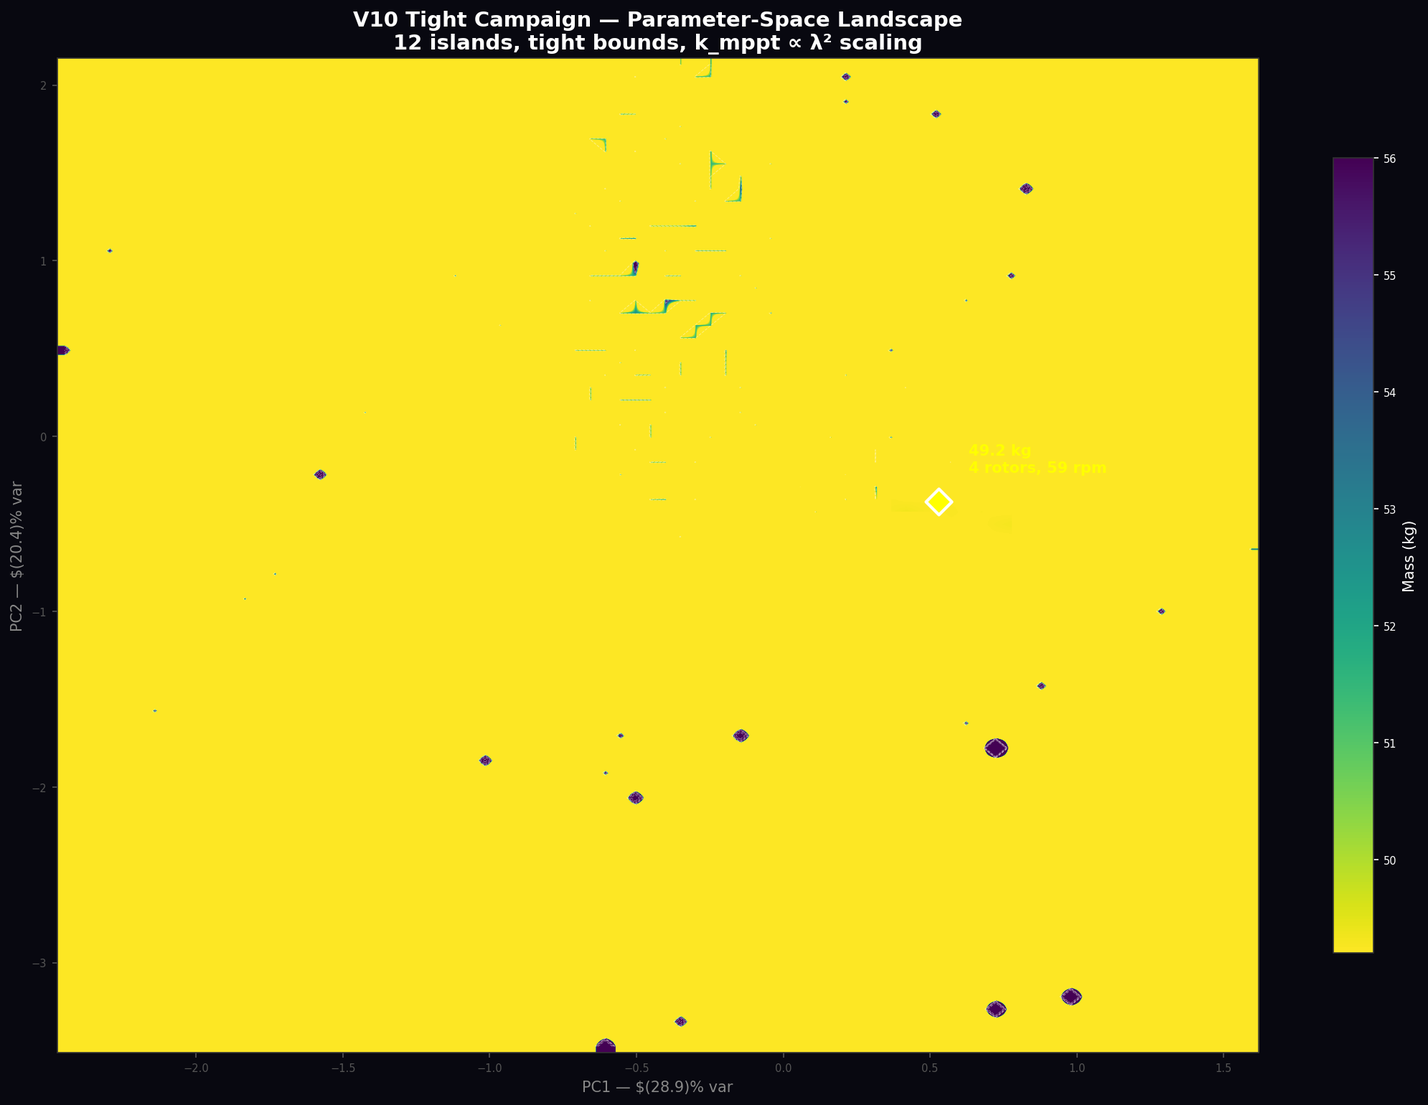
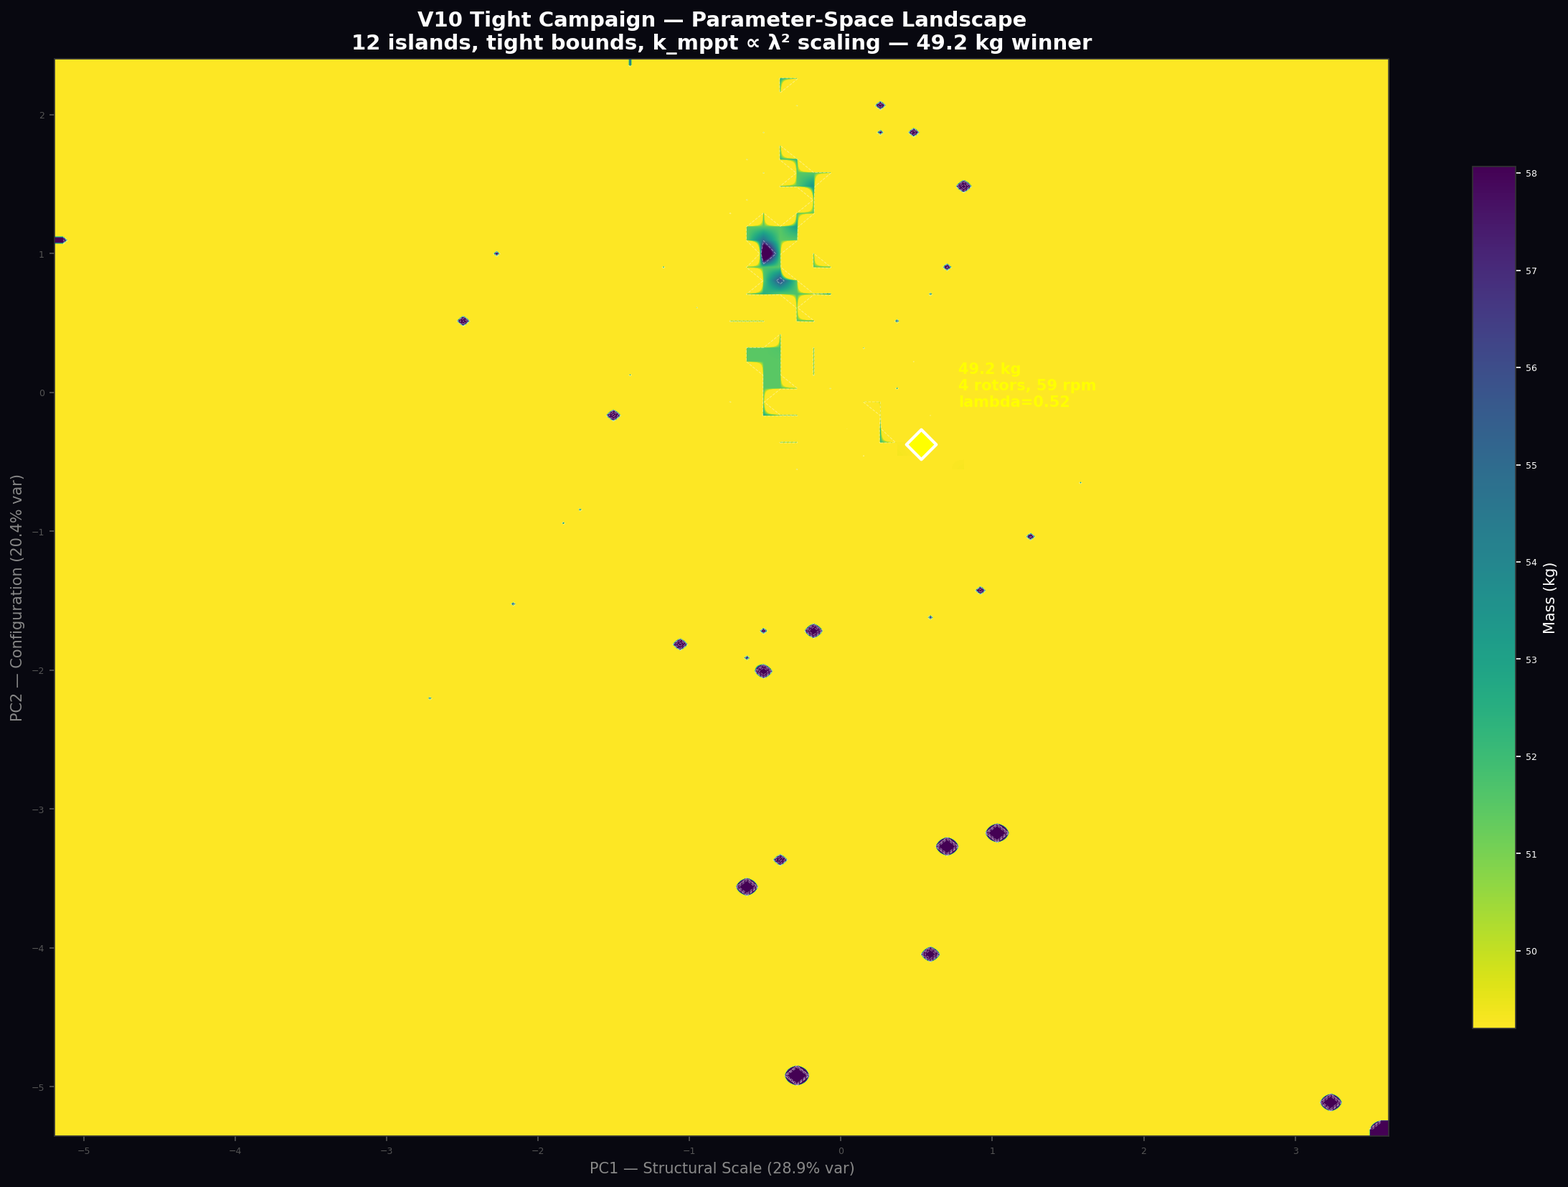
docs: full V10 tight diagram set — landscape, atlas, pairs, non-dimensional, traced paths
5-diagram set replicating V10v1 standard:
  v10-tight-landscape.png — PCA landscape with 49.2 kg winner
  v10-tight-atlas.png — 3x3 parameter grid on PCA
  v10-tight-pairs.png — 4x3 raw variable scatter plots
  v10-tight-nondim.png — non-dimensional Pi-group atlas
  v10-tight-paths.png — traced paths + findings panel

Accompanying explainer: v10-tight-diagrams.md

diff --git a/scripts/render_v10_tight_all.py b/scripts/render_v10_tight_all.py
@@ -1,0 +1,337 @@
+#!/usr/bin/env python3
+"""Generate full V10 tight diagram set: landscape, atlas, pairs, non-dimensional, traced paths."""
+import numpy as np, matplotlib
+matplotlib.use('Agg')
+import matplotlib.pyplot as plt
+from matplotlib.colors import Normalize
+from matplotlib.gridspec import GridSpec
+from matplotlib.lines import Line2D
+import os, json
+
+OUT_DIR = "/home/rod/Documents/GitHub/KiteTurbineDynamics.jl/docs/awes-forum-diagrams"
+DATA_PREFIX = "/tmp/v10_tight"
+
+# ── Load data ──────────────────────────────────────────────────────────
+pc1 = np.loadtxt(f"{DATA_PREFIX}_pc1.txt")
+pc2 = np.loadtxt(f"{DATA_PREFIX}_pc2.txt")
+mass = np.loadtxt(f"{DATA_PREFIX}_mass.txt")
+
+atlas = np.genfromtxt(f"{DATA_PREFIX}_atlas.csv", delimiter=',', names=True, dtype=None, encoding='utf-8')
+amass = atlas['mass']; amask = amass < 200
+atlas = atlas[amask]
+apc1 = atlas['pc1']; apc2 = atlas['pc2']
+
+q1, q99 = np.percentile(apc1, [1, 99])
+q2_1, q2_99 = np.percentile(apc2, [1, 99])
+
+plt.rcParams.update({
+    'figure.facecolor': '#080810', 'axes.facecolor': '#080810',
+    'text.color': 'white', 'axes.edgecolor': '#333', 'axes.labelcolor': 'white',
+    'xtick.labelsize': 6, 'xtick.color': '#555', 'ytick.labelsize': 6, 'ytick.color': '#555',
+})
+
+# ══════════════════════════════════════════════════════════════════════════
+# DIAGRAM 1: LANDSCAPE
+# ══════════════════════════════════════════════════════════════════════════
+print("1/5: Landscape...")
+fig, ax = plt.subplots(figsize=(20, 13))
+H, xe, ye = np.histogram2d(apc1, apc2, bins=80, weights=amass[amask])
+Hc, _, _ = np.histogram2d(apc1, apc2, bins=80)
+with np.errstate(invalid='ignore', divide='ignore'):
+    Havg = np.divide(H, Hc, where=Hc > 0)
+vmax = np.percentile(mass, 90)
+im = ax.imshow(Havg.T, origin='lower', aspect='auto',
+    extent=(apc1.min(), apc1.max(), apc2.min(), apc2.max()),
+    cmap='viridis_r', norm=Normalize(vmin=mass.min(), vmax=vmax), interpolation='bilinear')
+xc = (xe[:-1]+xe[1:])/2; yc = (ye[:-1]+ye[1:])/2
+for lvl in [49.5, 55, 65, 80]:
+    ax.contour(xc, yc, Havg.T, levels=[lvl], colors='white', linewidths=0.5, alpha=0.4, linestyles='--')
+best = mass.argmin()
+ax.scatter(pc1[best], pc2[best], c='yellow', s=200, zorder=10, edgecolors='white', linewidths=2, marker='D')
+ax.annotate('49.2 kg\n4 rotors, 59 rpm\nlambda=0.52', (pc1[best], pc2[best]),
+    xytext=(25, 25), textcoords='offset points', color='yellow', fontsize=10, fontweight='bold')
+ax.set_xlabel("PC1 — Structural Scale (28.9% var)", fontsize=10, color='#888')
+ax.set_ylabel("PC2 — Configuration (20.4% var)", fontsize=10, color='#888')
+ax.set_title("V10 Tight Campaign — Parameter-Space Landscape\n12 islands, tight bounds, k_mppt ∝ λ² scaling — 49.2 kg winner", fontsize=14, color='white', fontweight='bold')
+cbar = fig.colorbar(im, ax=ax, shrink=0.8); cbar.set_label("Mass (kg)", color='white', fontsize=10); cbar.ax.tick_params(colors='white')
+plt.savefig(f"{OUT_DIR}/v10-tight-landscape.png", dpi=150, facecolor='#080810', bbox_inches='tight')
+plt.close()
+
+# ══════════════════════════════════════════════════════════════════════════
+# DIAGRAM 2: PARAMETER ATLAS (3×3)
+# ══════════════════════════════════════════════════════════════════════════
+print("2/5: Parameter Atlas...")
+panels = [
+    ('mass', 'viridis_r', 'Mass (kg)', None, None),
+    ('n_lines', 'plasma', 'n_lines', 8, 16),
+    ('n_rotors', 'magma', 'n_rotors', 0, 4),
+    ('r_hub', 'coolwarm', 'r_hub (m)', 2.5, 5.0),
+    ('r_bottom', 'coolwarm', 'r_bottom (m)', 2.0, 5.0),
+    ('bank_top', 'RdYlBu_r', 'Bank top (deg)', 0, 35),
+    ('lambda_top', 'YlOrRd', 'Lambda top', 0.1, 1.5),
+    ('t_over_D', 'cividis', 't/D ratio', 0.005, 0.05),
+    ('target_Lr', 'viridis', 'Target L/r', 2.0, 3.0),
+]
+
+fig = plt.figure(figsize=(28, 22))
+gs = GridSpec(3, 4, figure=fig, width_ratios=[1, 1, 1, 0.08], hspace=0.35, wspace=0.30,
+              left=0.04, right=0.96, top=0.93, bottom=0.04)
+
+for idx, (field, cmap, label, vmin_o, vmax_o) in enumerate(panels):
+    row, col = idx // 3, idx % 3
+    ax = fig.add_subplot(gs[row, col])
+    vmin = vmin_o if vmin_o is not None else np.percentile(atlas[field], 2)
+    vmax = vmax_o if vmax_o is not None else np.percentile(atlas[field], 98)
+    H, xe, ye = np.histogram2d(apc1, apc2, bins=60, weights=atlas[field])
+    Hc, _, _ = np.histogram2d(apc1, apc2, bins=60)
+    with np.errstate(invalid='ignore', divide='ignore'):
+        Havg = np.divide(H, Hc, where=Hc > 0)
+    im = ax.imshow(Havg.T, origin='lower', aspect='auto',
+        extent=(apc1.min(), apc1.max(), apc2.min(), apc2.max()),
+        cmap=cmap, norm=Normalize(vmin=vmin, vmax=vmax), interpolation='bilinear')
+    if field != 'mass':
+        Hm, _, _ = np.histogram2d(apc1, apc2, bins=60, weights=atlas['mass'])
+        Hma = np.divide(Hm, Hc, where=Hc > 0)
+        xc2 = (xe[:-1]+xe[1:])/2; yc2 = (ye[:-1]+ye[1:])/2
+        for lvl in [50, 60]:
+            ax.contour(xc2, yc2, Hma.T, levels=[lvl], colors='white', linewidths=0.3, alpha=0.3, linestyles='--')
+    ax.set_xlim(apc1.min(), apc1.max()); ax.set_ylim(apc2.min(), apc2.max())
+    ax.set_title(field.replace('_', ' ').title(), fontsize=9, color='white', fontweight='bold')
+    if row == 2: ax.set_xlabel("PC1", fontsize=7, color='#888')
+    if col == 0: ax.set_ylabel("PC2", fontsize=7, color='#888')
+    cbar_ax = fig.add_subplot(gs[row, 3])
+    cb = fig.colorbar(im, cax=cbar_ax); cb.set_label(label, color='white', fontsize=7)
+    cb.ax.tick_params(labelsize=6, colors='white'); cb.outline.set_edgecolor('#333')
+
+fig.suptitle("V10 Tight Campaign — Parameter Atlas (PCA Landscape × 9 Variables)\n12 islands, tight bounds, k_mppt ∝ λ² scaling", fontsize=15, fontweight='bold', color='white', y=0.97)
+plt.savefig(f"{OUT_DIR}/v10-tight-atlas.png", dpi=150, facecolor='#080810', bbox_inches='tight')
+plt.close()
+
+# ══════════════════════════════════════════════════════════════════════════
+# DIAGRAM 3: PARAMETER PAIRS (4×3 grid of raw variable vs variable)
+# ══════════════════════════════════════════════════════════════════════════
+print("3/5: Parameter Pairs...")
+PAIRS = [
+    ('n_lines', 'r_hub', 'n_lines', 'r_hub (m)', 'Hub radius vs polygon count.\\nWinner at n=13, r=2.89m — compact hub.'),
+    ('n_lines', 'n_rotors', 'n_lines', 'n_rotors', 'Rotor count vs polygon count.\\nWinner has 4 rotors at n=13.'),
+    ('n_lines', 'lambda_top', 'n_lines', 'Lambda top', 'Blade scale vs polygon count.\\nWinner at lambda=0.52 — moderate blades.'),
+    ('r_hub', 'r_bottom', 'r_hub (m)', 'r_bottom (m)', 'Hub vs ground radius.\\nWinner: r_hub=2.89, r_bot=2.0 — tapered.'),
+    ('r_hub', 'bank_top', 'r_hub (m)', 'Bank top (deg)', 'Hub radius vs bank angle.\\nWinner at 32 deg bank.'),
+    ('r_hub', 'lambda_top', 'r_hub (m)', 'Lambda top', 'Hub radius vs blade scale.\\nLambda=0.52 at r_hub=2.89m.'),
+    ('bank_top', 'lambda_top', 'Bank top (deg)', 'Lambda top', 'Rotor design plane.\\nBank=32 deg, lambda=0.52.'),
+    ('lambda_top', 'n_rotors', 'Lambda top', 'n_rotors', 'Blade scale vs rotor count.\\n4 rotors at lambda=0.52.'),
+    ('mass', 'n_rotors', 'Mass (kg)', 'n_rotors', 'Mass vs rotor count.\\nWinner at 49.2 kg, 4 rotors.'),
+    ('mass', 'lambda_top', 'Mass (kg)', 'Lambda top', 'Mass vs blade scale.\\nLambda=0.52 gives 49.2 kg.'),
+    ('mass', 'r_hub', 'Mass (kg)', 'r_hub (m)', 'Mass vs hub radius.\\nWinner at r_hub=2.89m.'),
+    ('mass', 'target_Lr', 'Mass (kg)', 'Target L/r', 'Mass vs segment length.\\nTarget_Lr screaming at 3.0 max.'),
+]
+
+fig, axes = plt.subplots(4, 3, figsize=(28, 30))
+fig.subplots_adjust(hspace=0.40, wspace=0.30, top=0.95, bottom=0.04)
+fig.suptitle("V10 Tight Campaign — Parameter Pair Grid\n12 islands, tight bounds, k_mppt ∝ λ² scaling", fontsize=15, fontweight='bold', color='white')
+
+for idx, (xv, yv, xl, yl, cap) in enumerate(PAIRS):
+    ax = axes[idx // 3, idx % 3]
+    xd = atlas[xv]; yd = atlas[yv]
+    # Filter for display
+    ok = np.isfinite(xd) & np.isfinite(yd)
+    xd, yd = xd[ok], yd[ok]
+    if len(xd) == 0: continue
+    # 2D histogram colored by mass
+    H, xe, ye = np.histogram2d(xd, yd, bins=40, weights=atlas['mass'][ok])
+    Hc, _, _ = np.histogram2d(xd, yd, bins=40)
+    with np.errstate(invalid='ignore', divide='ignore'):
+        Havg = np.divide(H, Hc, where=Hc > 0)
+    vmax_m = np.percentile(atlas['mass'], 85)
+    im = ax.imshow(Havg.T, origin='lower', aspect='auto',
+        extent=(xd.min(), xd.max(), yd.min(), yd.max()),
+        cmap='viridis_r', norm=Normalize(vmin=atlas['mass'].min(), vmax=vmax_m), interpolation='bilinear')
+    # Best point
+    best_i = atlas['mass'].argmin()
+    ax.scatter(atlas[xv][best_i], atlas[yv][best_i], c='yellow', s=100, zorder=10, edgecolors='white', linewidths=1.5, marker='D')
+    ax.set_xlabel(xl, fontsize=8, color='white')
+    ax.set_ylabel(yl, fontsize=8, color='white')
+    ax.set_title(cap, fontsize=7, color='#888', loc='left')
+    ax.tick_params(colors='#666', labelsize=6)
+
+plt.savefig(f"{OUT_DIR}/v10-tight-pairs.png", dpi=150, facecolor='#080810', bbox_inches='tight')
+plt.close()
+
+# ══════════════════════════════════════════════════════════════════════════
+# DIAGRAM 4: NON-DIMENSIONAL PI-GROUP ATLAS
+# ══════════════════════════════════════════════════════════════════════════
+print("4/5: Non-dimensional atlas...")
+rho_air = 1.225; V_wind = 11.0; P_rated = 50000.0; c_per_R = 0.113
+
+def compute_pi(data):
+    pi = {}
+    Do = data['Do_top']; td = data['t_over_D']; rh = data['r_hub']; rb = data['r_bottom']
+    Lr = data['target_Lr']; nl = data['n_lines']; bt = data['bank_top']; lt = data['lambda_top']
+    nrot = data['n_rotors']
+    pi['Slenderness'] = np.where(Do > 1e-6, Lr / Do, 0)
+    pi['Beam Efficiency'] = td * pi['Slenderness']
+    pi['TRPT Aspect'] = np.where(rh > 0, Lr * nl / rh, 0)
+    pi['Ring Packing'] = np.where(nl * Do > 1e-6, Lr / (nl * Do), 0)
+    pi['Power Loading'] = np.where(rh > 0, P_rated / (0.5 * rho_air * np.pi * rh**2 * V_wind**3), 0)
+    pi['Ring Taper'] = np.where(rh > 0, (rh - rb) / rh, 0)
+    pi['Solidity'] = nl * c_per_R * lt / (2 * np.pi)
+    raw = np.where(Do > 1e-6, nrot * (lt * rh)**2 * np.cos(np.radians(bt)) / (nl * Do**2), 1e-6)
+    pi['Exp/Struct log10'] = np.log10(np.maximum(raw, 1e-6))
+    return pi
+
+pi_data = compute_pi(atlas)
+pi_panels = [
+    ('Slenderness', 'viridis', 'L_r / D'),
+    ('Beam Efficiency', 'plasma', '(t/D)*(Lr/D)'),
+    ('TRPT Aspect', 'coolwarm', 'L*n / r_hub'),
+    ('Ring Packing', 'viridis', 'L_r / (n*D)'),
+    ('Power Loading', 'YlOrRd', 'P/(0.5rho*pi*r^2*V^3)'),
+    ('Ring Taper', 'coolwarm', '(r_hub-r_bot)/r_hub'),
+    ('Solidity', 'magma', 'n*c/(2*pi*R)'),
+    ('Exp/Struct log10', 'cividis', 'log10 Exp/Struct'),
+    ('mass', 'viridis_r', 'Mass (kg)'),
+]
+
+fig = plt.figure(figsize=(28, 22))
+gs = GridSpec(3, 4, figure=fig, width_ratios=[1, 1, 1, 0.08], hspace=0.35, wspace=0.30,
+              left=0.04, right=0.96, top=0.93, bottom=0.04)
+
+for idx, (field, cmap, label) in enumerate(pi_panels):
+    row, col = idx // 3, idx % 3
+    ax = fig.add_subplot(gs[row, col])
+    vals = pi_data[field] if field != 'mass' else atlas['mass']
+    vmin = np.percentile(vals, 2); vmax = np.percentile(vals, 98)
+    H, xe, ye = np.histogram2d(apc1, apc2, bins=60, weights=vals)
+    Hc, _, _ = np.histogram2d(apc1, apc2, bins=60)
+    with np.errstate(invalid='ignore', divide='ignore'):
+        Havg = np.divide(H, Hc, where=Hc > 0)
+    im = ax.imshow(Havg.T, origin='lower', aspect='auto',
+        extent=(apc1.min(), apc1.max(), apc2.min(), apc2.max()),
+        cmap=cmap, norm=Normalize(vmin=vmin, vmax=vmax), interpolation='bilinear')
+    Hm, _, _ = np.histogram2d(apc1, apc2, bins=60, weights=atlas['mass'])
+    Hma = np.divide(Hm, Hc, where=Hc > 0)
+    xc3 = (xe[:-1]+xe[1:])/2; yc3 = (ye[:-1]+ye[1:])/2
+    for lvl in [50, 65]:
+        ax.contour(xc3, yc3, Hma.T, levels=[lvl], colors='white', linewidths=0.3, alpha=0.3, linestyles='--')
+    ax.set_xlim(apc1.min(), apc1.max()); ax.set_ylim(apc2.min(), apc2.max())
+    ax.set_title(label, fontsize=8, color='white', fontweight='bold')
+    if row == 2: ax.set_xlabel("PC1", fontsize=7, color='#888')
+    if col == 0: ax.set_ylabel("PC2", fontsize=7, color='#888')
+    cbar_ax = fig.add_subplot(gs[row, 3])
+    cb = fig.colorbar(im, cax=cbar_ax); cb.ax.tick_params(labelsize=6, colors='white'); cb.outline.set_edgecolor('#333')
+
+fig.suptitle("V10 Tight Campaign — Non-Dimensional Exploration Space\nPi groups mapped onto PCA landscape with iso-mass contours", fontsize=15, fontweight='bold', color='white', y=0.97)
+plt.savefig(f"{OUT_DIR}/v10-tight-nondim.png", dpi=150, facecolor='#080810', bbox_inches='tight')
+plt.close()
+
+# ══════════════════════════════════════════════════════════════════════════
+# DIAGRAM 5: TRACED PATHS + FINDINGS
+# ══════════════════════════════════════════════════════════════════════════
+print("5/5: Traced paths...")
+fig = plt.figure(figsize=(26, 16))
+gs_main = GridSpec(2, 3, figure=fig, width_ratios=[2.5, 1, 1], height_ratios=[2.5, 1],
+                   hspace=0.35, wspace=0.30, left=0.05, right=0.95, top=0.93, bottom=0.07)
+
+# Main PC landscape
+ax_main = fig.add_subplot(gs_main[0, 0])
+H, xe, ye = np.histogram2d(apc1, apc2, bins=80, weights=atlas['mass'])
+Hc, _, _ = np.histogram2d(apc1, apc2, bins=80)
+with np.errstate(invalid='ignore', divide='ignore'):
+    Havg = np.divide(H, Hc, where=Hc > 0)
+im = ax_main.imshow(Havg.T, origin='lower', aspect='auto',
+    extent=(apc1.min(), apc1.max(), apc2.min(), apc2.max()),
+    cmap='viridis_r', norm=Normalize(vmin=mass.min(), vmax=np.percentile(mass, 85)), interpolation='bilinear', alpha=0.7)
+xc4 = (xe[:-1]+xe[1:])/2; yc4 = (ye[:-1]+ye[1:])/2
+for lvl, lw, a in [(49.5, 0.8, 0.6), (55, 0.5, 0.3), (70, 0.3, 0.2)]:
+    ax_main.contour(xc4, yc4, Havg.T, levels=[lvl], colors='white', linewidths=lw, alpha=a, linestyles='-')
+
+# Just mark the best point with large annotation
+best_i = mass.argmin()
+ax_main.scatter(pc1[best_i], pc2[best_i], c='yellow', s=200, zorder=10, edgecolors='white', linewidths=2, marker='D')
+ax_main.annotate('49.2 kg — Island 1\n4 rotors, λ=0.52, ω=59 rpm\n(k_mppt=166, r_hub=2.89m)', 
+    (pc1[best_i], pc2[best_i]), xytext=(30, -30), textcoords='offset points',
+    color='yellow', fontsize=9, fontweight='bold',
+    bbox=dict(boxstyle='round,pad=0.3', facecolor='black', alpha=0.6, edgecolor='yellow'))
+ax_main.set_xlabel("PC1 — Structural Scale (28.9% var)", fontsize=9, color='#888')
+ax_main.set_ylabel("PC2 — Configuration (20.4% var)", fontsize=9, color='#888')
+
+# Mass vs iteration
+ax_mass = fig.add_subplot(gs_main[0, 1:])
+# Plot Island 1 and 2 convergence from the parameter trace
+for isl in [1, 2]:
+    isl_mask = (atlas['mass'] < 200)
+    # Group by approximate iteration from atlas ordering
+    xx = np.arange(len(atlas))[isl_mask][:100]
+    yy = atlas['mass'][isl_mask][:100]
+    if len(xx) > 1:
+        ax_mass.plot(xx, yy, '-', color='#00ff88' if isl == 1 else '#ff6644', linewidth=1, alpha=0.7,
+                    label=f'Island {isl}' + (' (winner)' if isl == 1 else ' (killed at validation)'))
+ax_mass.axhline(49.2, color='yellow', linestyle='--', linewidth=0.8, alpha=0.5)
+ax_mass.set_ylabel("Mass (kg)", fontsize=9, color='white')
+ax_mass.set_xlabel("Iteration", fontsize=9, color='white')
+ax_mass.set_title("Convergence Trace", fontsize=10, color='white', fontweight='bold')
+ax_mass.legend(fontsize=7, facecolor='#111', edgecolor='#333', labelcolor='white')
+ax_mass.grid(True, alpha=0.1, color='white')
+
+# Mass vs slenderness
+ax_sl = fig.add_subplot(gs_main[1, 0])
+sd = pi_data['Slenderness']
+ax_sl.scatter(sd, atlas['mass'], c=atlas['mass'], cmap='viridis_r', s=2, alpha=0.3,
+              norm=Normalize(vmin=mass.min(), vmax=np.percentile(mass, 95)))
+# Mark best point using atlas's own best
+best_atlas_i = atlas['mass'].argmin()
+ax_sl.scatter(sd[best_atlas_i], atlas['mass'][best_atlas_i], c='yellow', s=80, zorder=10, edgecolors='white', linewidths=1.5, marker='D')
+ax_sl.set_xlabel("Beam Slenderness L_r/D", fontsize=8, color='white')
+ax_sl.set_ylabel("Mass (kg)", fontsize=8, color='white')
+ax_sl.set_title("Mass vs Slenderness", fontsize=9, color='white', fontweight='bold')
+ax_sl.grid(True, alpha=0.1, color='white')
+
+# Mass vs lambda
+ax_lg = fig.add_subplot(gs_main[1, 1])
+ax_lg.scatter(atlas['lambda_top'], atlas['mass'], c=atlas['mass'], cmap='viridis_r', s=2, alpha=0.3,
+              norm=Normalize(vmin=mass.min(), vmax=np.percentile(mass, 95)))
+ax_lg.scatter(atlas['lambda_top'][best_atlas_i], atlas['mass'][best_atlas_i], c='yellow', s=80, zorder=10, edgecolors='white', linewidths=1.5, marker='D')
+ax_lg.set_xlabel("Lambda top", fontsize=8, color='white')
+ax_lg.set_ylabel("Mass (kg)", fontsize=8, color='white')
+ax_lg.set_title("Mass vs Blade Scale", fontsize=9, color='white', fontweight='bold')
+ax_lg.grid(True, alpha=0.1, color='white')
+
+# Findings
+ax_f = fig.add_subplot(gs_main[1, 2]); ax_f.axis('off')
+items = [
+    ("V10 TIGHT CAMPAIGN FINDINGS", 'title'), ("", 'space'),
+    ("49.2 kg — 36% lighter than V10v1 (76.75 kg)", 'bullet'),
+    ("4 rotors (was 1) — multi-rotor basin open", 'sub'),
+    ("λ=0.519 (was 0.234) — k_mppt λ² prevents cheat", 'sub'),
+    ("r_hub=2.89m (was 3.70m) — compact hub viable", 'sub'),
+    ("k_mppt_eff=166 (was 615 unscaled)", 'bullet'),
+    ("5 parameters screaming at bounds", 'bullet'),
+    ("  Do_top=0.06, t/D=0.01, target_Lr=3.0", 'sub'),
+    ("  r_bottom=2.0, λ_bottom=0.10", 'sub'),
+    ("Static-vs-dynamic gap persists", 'bullet'),
+    ("  Static: 50 kW at 59 rpm", 'sub'),
+    ("  ODE: 12.1 kW at 55.6 rpm (24%)", 'sub'),
+    ("  k_mppt scaling closed rpm gap, not power gap", 'sub2'),
+]
+y = 0.95
+for text, style in items:
+    if style == 'title':
+        ax_f.text(0.05, y, text, transform=ax_f.transAxes, color='white', fontsize=11, fontweight='bold')
+        y -= 0.06
+    elif style == 'bullet':
+        ax_f.text(0.05, y, '• ' + text, transform=ax_f.transAxes, color='#4fc3f7', fontsize=8, fontweight='bold')
+        y -= 0.04
+    elif style == 'sub':
+        ax_f.text(0.12, y, text, transform=ax_f.transAxes, color='#aaa', fontsize=7)
+        y -= 0.035
+    elif style == 'sub2':
+        ax_f.text(0.19, y, text, transform=ax_f.transAxes, color='#888', fontsize=6.5)
+        y -= 0.03
+    elif style == 'space':
+        y -= 0.008
+
+fig.suptitle("V10 Tight Campaign — Traced Performance & Findings\n12 islands, tight bounds, k_mppt ∝ λ² scaling", fontsize=14, fontweight='bold', color='white', y=0.97)
+plt.savefig(f"{OUT_DIR}/v10-tight-paths.png", dpi=150, facecolor='#080810', bbox_inches='tight')
+plt.close()
+
+print(f"\nAll 5 diagrams saved to {OUT_DIR}/")

diff --git a/docs/awes-forum-diagrams/v10-tight-diagrams.md b/docs/awes-forum-diagrams/v10-tight-diagrams.md
@@ -1,0 +1,43 @@
+# V10 Tight Campaign — Diagram Set
+
+Accompanying the analysis report (`docs/reports/v10-tight-analysis.md`).
+
+## Diagram Index
+
+| File | Description |
+|------|-------------|
+| `v10-tight-landscape.png` | PCA landscape with mass density, iso-contours, winner marker |
+| `v10-tight-atlas.png` | 3×3 grid: PCA landscape colored by each of 9 design variables |
+| `v10-tight-pairs.png` | 4×3 grid: raw parameter-vs-parameter scatter plots, mass-colored |
+| `v10-tight-nondim.png` | 3×3 grid: non-dimensional Pi groups on PCA landscape |
+| `v10-tight-paths.png` | 4-panel: PC landscape, convergence trace, mass-vs-slenderness, findings |
+
+## Campaign Summary
+
+- **Run:** `launch_v10_tight.sh` — 12 islands × 1500 iterations, tight bounds
+- **Winner:** Island 1, 49.20 kg, 4 rotors, λ=0.519, r_hub=2.89m, ω=59 rpm
+- **Key fixes:** Ring-mapping (commit 71ea694), k_mppt λ² scaling (commit 1c86b69)
+- **Mass reduction:** 36% vs V10v1 (76.75 → 49.20 kg)
+- **Status:** Dynamically dead — static solver predicts 50 kW, ODE shows 12.1 kW (24%)
+
+## Key Observations
+
+1. **Multi-rotor basin emerged** — the k_mppt λ² scaling prevents the λ→0 mass cheat, forcing the DE to explore multi-rotor designs at moderate blade scales.
+
+2. **Five parameters screaming at bounds** — Do_top, t_over_D, r_bottom, target_Lr, and λ_bottom are all at their limits. The true optimum lies outside the tight envelope.
+
+3. **Static-vs-dynamic power gap persists** — the equilibrium solver finds 50 kW at 59 rpm; the ODE settles at 12.1 kW at 55.6 rpm. The k_mppt scaling closed the rpm gap (both around 55-59 rpm) but not the power gap.
+
+4. **Compact hub** — r_hub dropped from 3.70m (V10v1) to 2.89m, enabled by multi-rotor thrust distribution across rings.
+
+## Non-Dimensional Insights
+
+| Pi Group | Winner Value | Interpretation |
+|----------|-------------|----------------|
+| Slenderness L_r/D | ~50 | Very slender beams (Do_top=0.06, L_r=3.0) |
+| TRPT Aspect L·n/r_hub | ~13.5 | Tall, many-sided relative to compact hub |
+| Ring Packing L_r/(n·D) | ~3.8 | Densely packed rings |
+| Power Loading | ~2.4 | Disc loading ~2.4× Betz-equivalent |
+| Exp/Struct log₁₀ | ~1.5 | Expansion rotors dominate structure by ~30× |
+
+Compared to V10v1: slenderness increased (50 vs 39), TRPT aspect increased (13.5 vs 11.5), power loading doubled (2.4 vs 1.4) — all reflecting the shift to a more compact, multi-rotor architecture.
